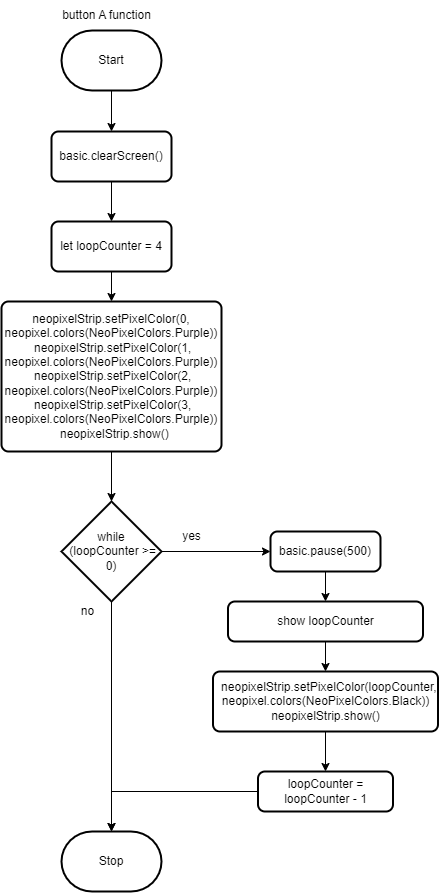
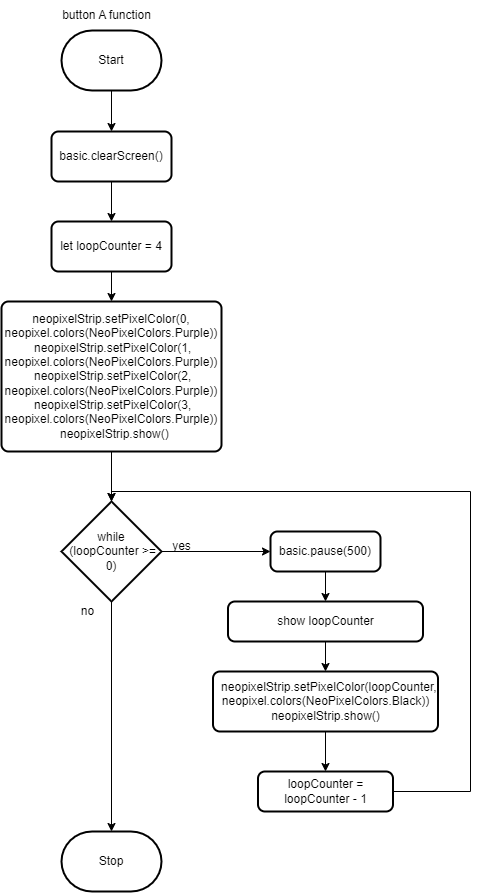
fixed flow

diff --git a/MicroPython/main.py b/MicroPython/main.py
@@ -44,16 +44,19 @@ while True:
         print(neopixel_strip[3])
         neopixel_strip.show()
 
+        # count number of loops
         while loop_counter >= 0:
             sleep(500)
             display.show(str(loop_counter))
+
+            # loop_counter goes down by 1
+            loop_counter -= 1
+
+            sleep(1000)
 
             # turn off neopixels one by one
             neopixel_strip[loop_counter] = (0, 0, 0)
             print(neopixel_strip[loop_counter])
             neopixel_strip.show()
-
-            # loop_counter goes down by 1
-            loop_counter -= 1
         else:
             display.show(Image.SKULL)
